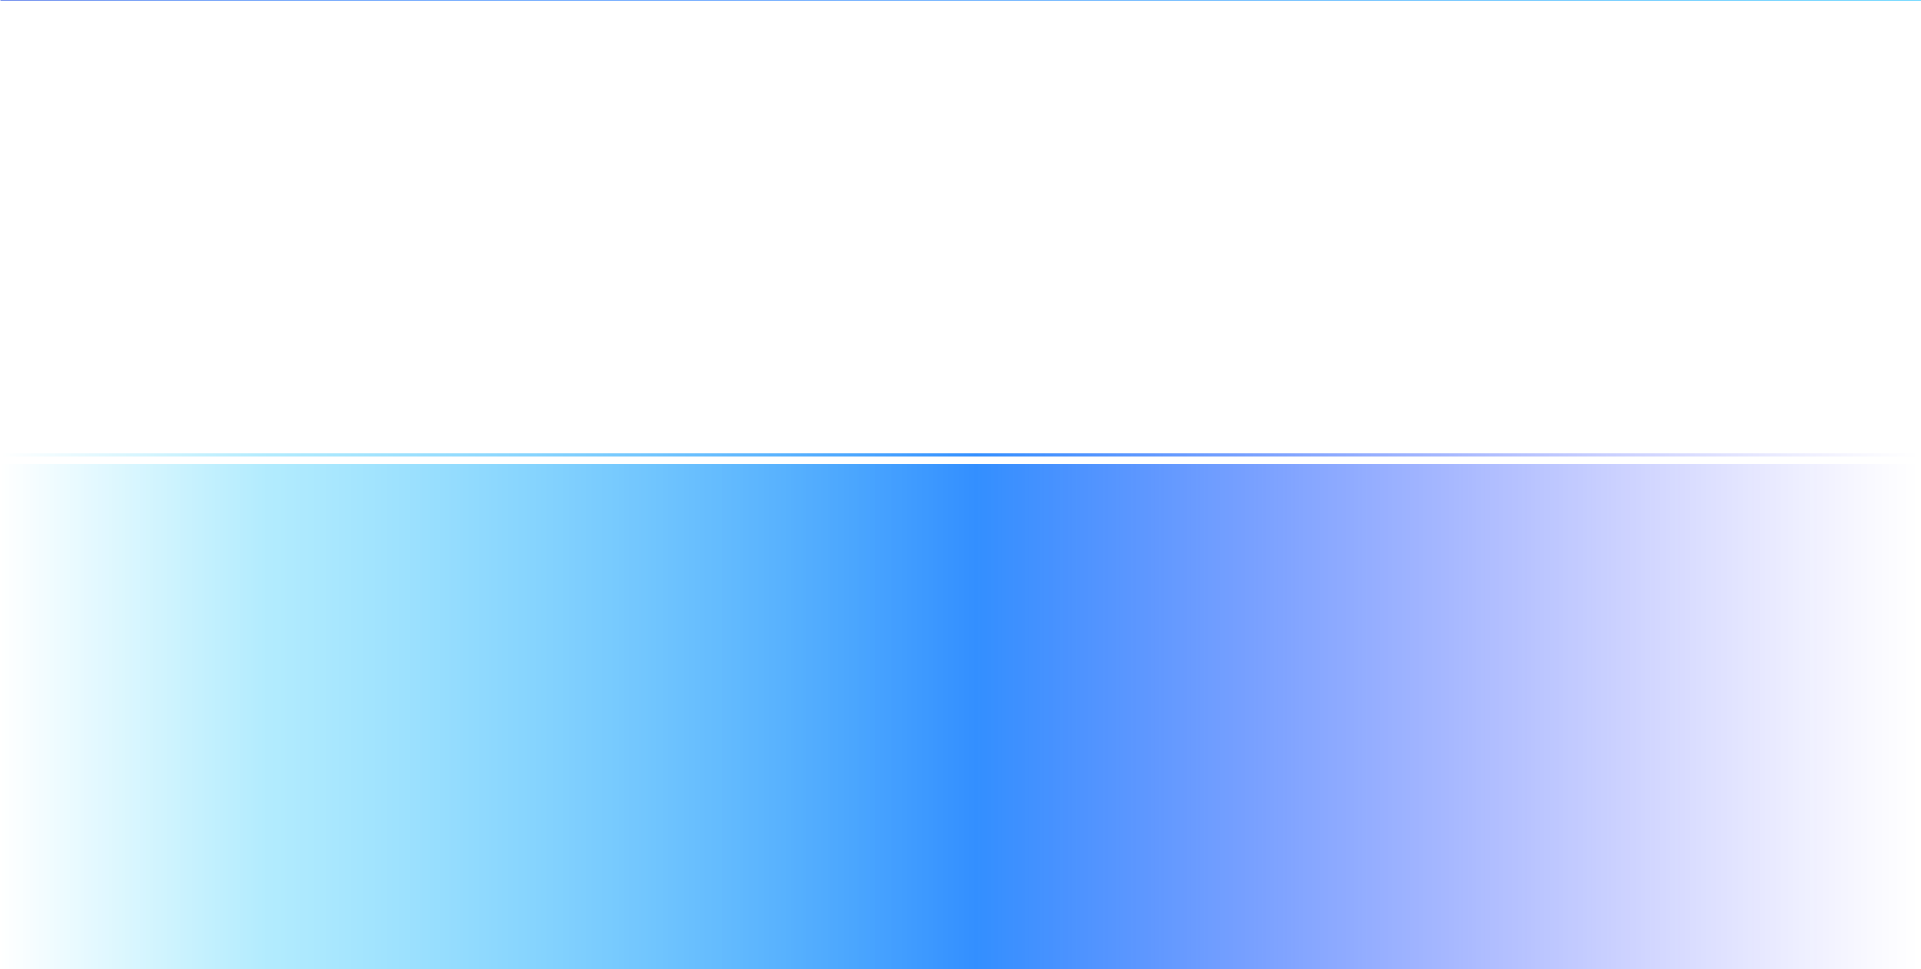
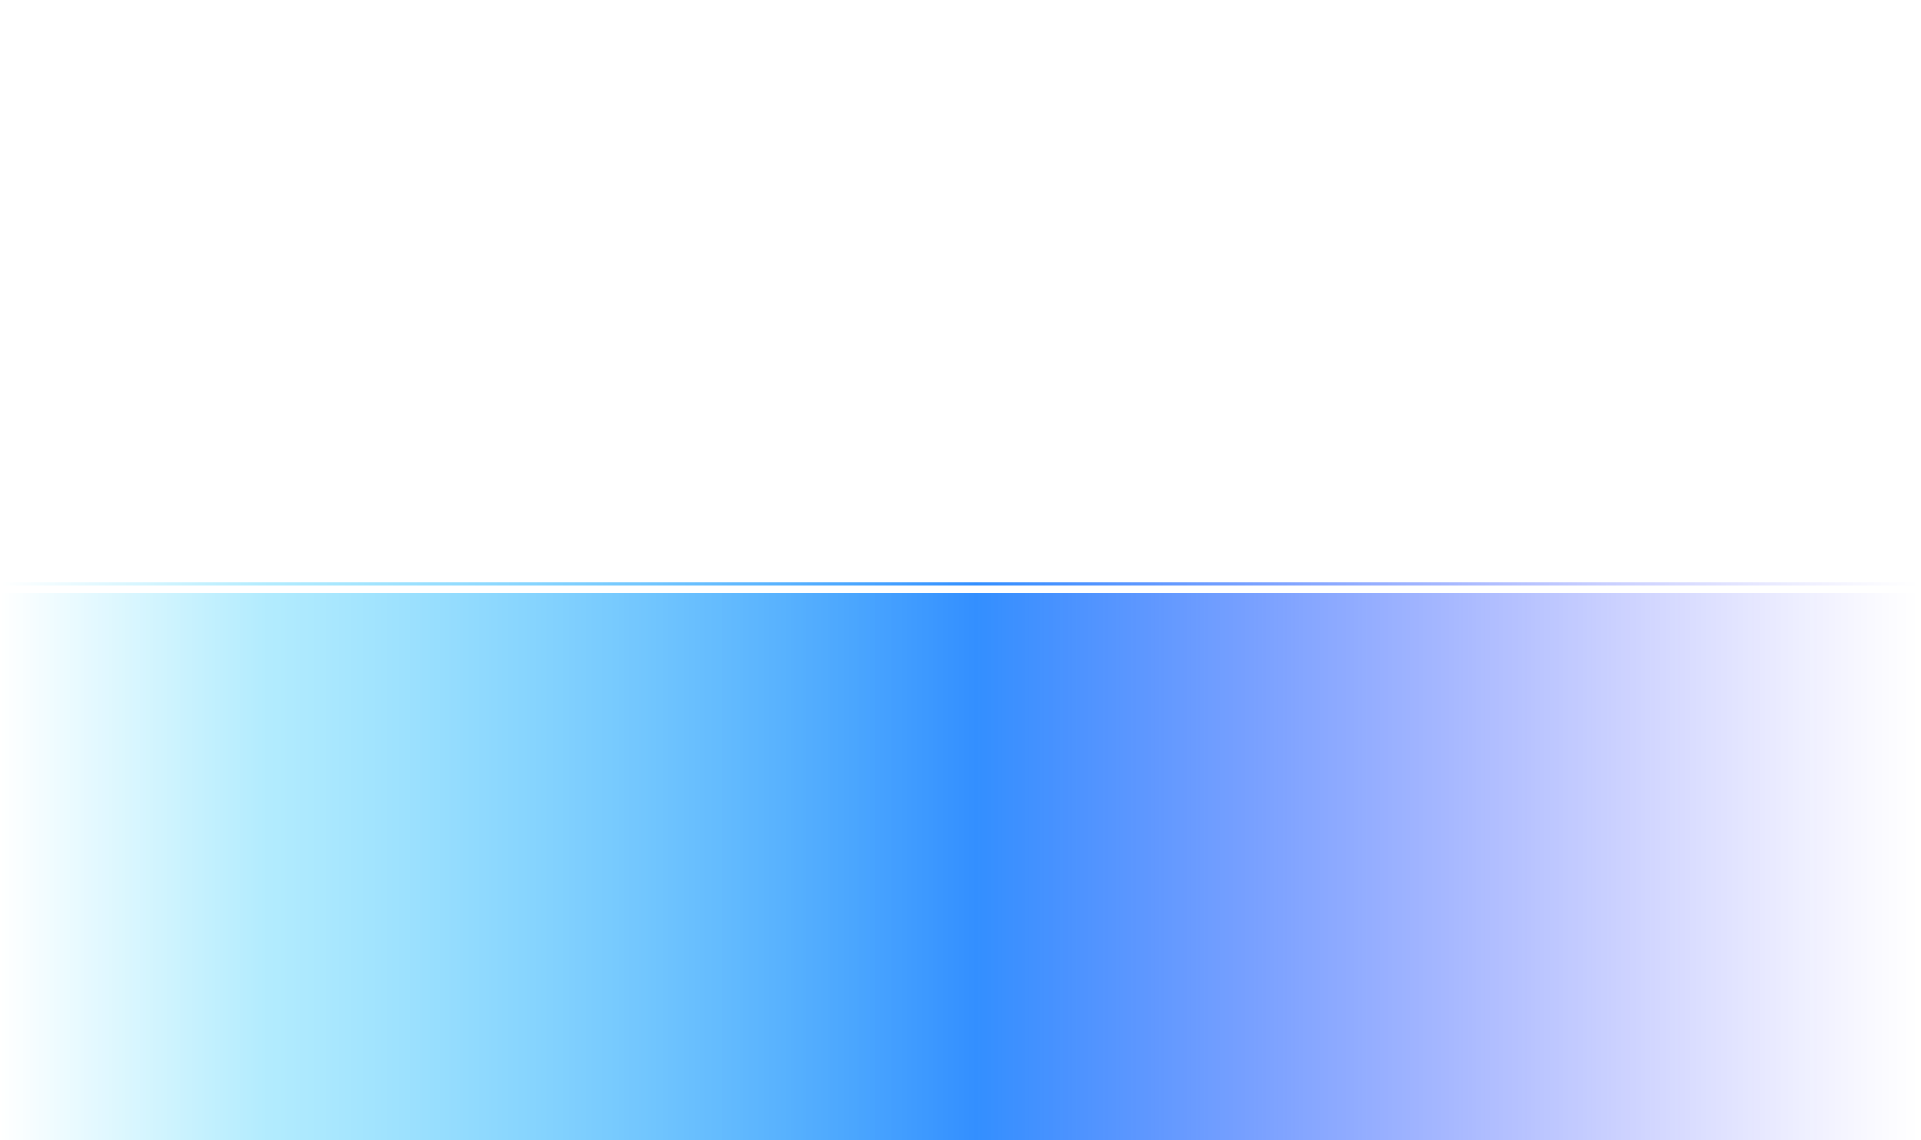
123

Changed region(s): [[0.0312, 0.4644, 0.937, 0.5263]]

diff --git a/danalytics/sass/pricing.css b/danalytics/sass/pricing.css
@@ -1,8 +1,8 @@
 @charset "UTF-8";
-.footer {
-  position: static;
-  background-color: white;
-  color: black;
+body {
+  background-image: url(../imgs/bg/bg4.png);
+  height: 100%;
+  background-size: contain;
 }
 
 .anavbar {
@@ -16,29 +16,34 @@
   filter: progid:DXImageTransform.Microsoft.gradient(startColorstr='#0032DE',endColorstr='#00B9FF' , GradientType=1);
 }
 
-.title {
+.container-fluids {
+  position: relative;
+  height: 100vh;
+}
+
+.container-fluids .title {
   position: absolute;
   color: #0044E3;
   font-weight: bolder;
   letter-spacing: 10px;
   font-size: 18px;
-  top: 9%;
+  top: 3%;
   left: 13%;
 }
 
-.title img {
+.container-fluids .title img {
   margin-right: 10px;
 }
 
-.title span {
+.container-fluids .title span {
   padding-left: 10px;
 }
 
-.line {
+.container-fluids .line {
   position: absolute;
   height: 3px;
-  width: 1408px;
-  top: 14%;
+  width: 1000px;
+  top: 10%;
   left: 13%;
   background: -moz-linear-gradient(0% 50% 0deg, #0069ff 0%, rgba(0, 122, 255, 0.97) 8.82%, rgba(0, 154, 255, 0.9) 28.13%, rgba(0, 174, 255, 0.84) 44.35%, rgba(0, 181, 255, 0.8) 55.41%, rgba(0, 181, 255, 0) 100%);
   background: -webkit-linear-gradient(0deg, #0069ff 0%, rgba(0, 122, 255, 0.97) 8.82%, rgba(0, 154, 255, 0.9) 28.13%, rgba(0, 174, 255, 0.84) 44.35%, rgba(0, 181, 255, 0.8) 55.41%, rgba(0, 181, 255, 0) 100%);
@@ -51,43 +56,49 @@
   box-shadow: 0px 1px 13px 3px white;
 }
 
-.tag, .tag2, .tag3, .tag4 {
+.container-fluids .tag, .container-fluids .tag2, .container-fluids .tag3, .container-fluids .tag4 {
   position: absolute;
-  width: 210px;
+  width: 15%;
   height: 540px;
   box-shadow: 0px 1px 17px -1px #00B5FF;
   border-radius: 10px;
   left: 20%;
-  top: 27%;
+  top: 22.5%;
   background-color: white;
   font-weight: bolder;
 }
 
-.tag .up, .tag2 .up, .tag3 .up, .tag4 .up {
+.container-fluids .tag .up, .container-fluids .tag2 .up, .container-fluids .tag3 .up, .container-fluids .tag4 .up {
   position: absolute;
   top: -11%;
   z-index: -1;
+  left: 50%;
+  transform: translate(-50%);
 }
 
-.tag .cir, .tag2 .cir, .tag3 .cir, .tag4 .cir {
+.container-fluids .tag .cir, .container-fluids .tag2 .cir, .container-fluids .tag3 .cir, .container-fluids .tag4 .cir {
+  background-size: contain;
+  background-repeat: no-repeat;
+  width: 100%;
+  height: 300px;
   position: absolute;
   top: 23%;
 }
 
-.tag .tag_title, .tag2 .tag_title, .tag3 .tag_title, .tag4 .tag_title {
+.container-fluids .tag .tag_title, .container-fluids .tag2 .tag_title, .container-fluids .tag3 .tag_title, .container-fluids .tag4 .tag_title {
   font-size: 20px;
   color: #828282;
   text-align: center;
   margin-top: 12%;
 }
 
-.tag ul, .tag2 ul, .tag3 ul, .tag4 ul {
+.container-fluids .tag ul, .container-fluids .tag2 ul, .container-fluids .tag3 ul, .container-fluids .tag4 ul {
   color: #828282;
   margin-top: 103%;
   margin-left: 15%;
 }
 
-.tag button, .tag2 button, .tag3 button, .tag4 button {
+.container-fluids .tag button, .container-fluids .tag2 button, .container-fluids .tag3 button, .container-fluids .tag4 button {
   position: absolute;
   width: 150px;
   height: 30px;
@@ -100,42 +111,49 @@
   bottom: 25%;
 }
 
-.tag .tag_line, .tag2 .tag_line, .tag3 .tag_line, .tag4 .tag_line {
+.container-fluids .tag .tag_line, .container-fluids .tag2 .tag_line, .container-fluids .tag3 .tag_line, .container-fluids .tag4 .tag_line {
   margin-top: 10%;
   height: 2px;
   width: 100%;
   background-color: black;
 }
 
-.tag .tag_cont, .tag2 .tag_cont, .tag3 .tag_cont, .tag4 .tag_cont {
+.container-fluids .tag .tag_cont, .container-fluids .tag2 .tag_cont, .container-fluids .tag3 .tag_cont, .container-fluids .tag4 .tag_cont {
   color: #FC4463;
   font-size: 15px;
   text-align: center;
   margin-top: 40px;
 }
 
-.tag .tag_cont span, .tag2 .tag_cont span, .tag3 .tag_cont span, .tag4 .tag_cont span {
+.container-fluids .tag .tag_cont span, .container-fluids .tag2 .tag_cont span, .container-fluids .tag3 .tag_cont span, .container-fluids .tag4 .tag_cont span {
   font-size: 6.6px;
 }
 
-.tag2 {
+.container-fluids .tag2 {
   left: 36%;
 }
 
-.tag2 ul {
+.container-fluids .tag2 ul {
   margin-top: 74%;
 }
 
-.tag3 {
+.container-fluids .tag3 {
   left: 52%;
 }
 
-.tag4 {
+.container-fluids .tag4 {
   left: 68%;
 }
 
-.tag4 .tag_line {
+.container-fluids .tag4 .tag_line {
   margin-top: 45%;
+}
+
+.footer {
+  width: 100%;
+  position: fixed;
+  background-color: white;
+  color: black;
 }
  
 

diff --git a/danalytics/sass/pricing.scss b/danalytics/sass/pricing.scss
@@ -3,11 +3,13 @@ $main-color:#0044E3;
 $main-font-color:white;
 $subject-font-color:#828282;
 $tag-font-cont-color:#FC4463;
-.footer {
-    position: static;
-    background-color: white;
-    color:black;
-  }
+
+body{
+    background-image: url(../imgs/bg/bg4.png);
+    height: 100%;
+    
+    background-size: contain;
+}
   .anavbar{
     background : -moz-linear-gradient(0% 50% 0deg,rgba(0, 50, 222, 1) 0%,rgba(0, 59, 227, 1) 2.09%,rgba(0, 79, 240, 1) 8.22%,rgba(0, 93, 248, 1) 15.2%,rgba(0, 101, 253, 1) 23.67%,rgba(0, 104, 255, 1) 37.84%,rgba(0, 158, 255, 1) 79.81%,rgba(0, 185, 255, 1) 100%);
     background : -webkit-linear-gradient(0deg, rgba(0, 50, 222, 1) 0%, rgba(0, 59, 227, 1) 2.09%, rgba(0, 79, 240, 1) 8.22%, rgba(0, 93, 248, 1) 15.2%, rgba(0, 101, 253, 1) 23.67%, rgba(0, 104, 255, 1) 37.84%, rgba(0, 158, 255, 1) 79.81%, rgba(0, 185, 255, 1) 100%);
@@ -18,13 +20,16 @@ $tag-font-cont-color:#FC4463;
     background : linear-gradient(90deg, rgba(0, 50, 222, 1) 0%, rgba(0, 59, 227, 1) 2.09%, rgba(0, 79, 240, 1) 8.22%, rgba(0, 93, 248, 1) 15.2%, rgba(0, 101, 253, 1) 23.67%, rgba(0, 104, 255, 1) 37.84%, rgba(0, 158, 255, 1) 79.81%, rgba(0, 185, 255, 1) 100%);
     filter: progid:DXImageTransform.Microsoft.gradient(startColorstr='#0032DE',endColorstr='#00B9FF' , GradientType=1);
   }
+  .container-fluids{
+      position: relative;
+      height: 100vh;
   .title{ 
     position: absolute;
     color:$main-color;
     font-weight: bolder;
     letter-spacing:10px;
     font-size:18px;
-    top: 9%;
+    top: 3%;
     left: 13%;
     img{
         margin-right:10px;
@@ -36,8 +41,8 @@ $tag-font-cont-color:#FC4463;
 .line{
     position: absolute;
     height:3px;
-    width:1408px;
-    top:14%;
+    width:1000px;
+    top:10%;
     left:13%;
     background : -moz-linear-gradient(0% 50% 0deg,rgba(0, 105, 255, 1) 0%,rgba(0, 122, 255, 0.97) 8.82%,rgba(0, 154, 255, 0.9) 28.13%,rgba(0, 174, 255, 0.84) 44.35%,rgba(0, 181, 255, 0.8) 55.41%,rgba(0, 181, 255, 0) 100%);
     background : -webkit-linear-gradient(0deg, rgba(0, 105, 255, 1) 0%, rgba(0, 122, 255, 0.97) 8.82%, rgba(0, 154, 255, 0.9) 28.13%, rgba(0, 174, 255, 0.84) 44.35%, rgba(0, 181, 255, 0.8) 55.41%, rgba(0, 181, 255, 0) 100%);
@@ -51,20 +56,26 @@ $tag-font-cont-color:#FC4463;
 }
   .tag{
     position: absolute;
-    width: 210px;
+    width: 15%;
     height: 540px;
     box-shadow: 0px 1px 17px -1px #00B5FF;
     border-radius:10px;
     left:20%;
-    top:27%;
+    top:22.5%;
     background-color:white;
     font-weight: bolder;
     .up{
       position: absolute;
       top:-11%;
       z-index: -1;
+      left: 50%;
+      transform: translate(-50%)
     }
     .cir{
+        background-size: contain;
+        background-repeat: no-repeat;
+        width: 100%;
+        height: 300px;
       position: absolute;
       top:23%;
     }
@@ -125,4 +136,11 @@ $tag-font-cont-color:#FC4463;
       .tag_line{
         margin-top:45%;
       }
+  }
+}
+  .footer {
+      width: 100%;
+    position: fixed;
+    background-color: white;
+    color:black;
   }

diff --git a/danalytics/pricing.html b/danalytics/pricing.html
@@ -76,13 +76,12 @@
             </div>
     </div>
     <div class="container-fluids" style="position:relative">
-        <img src="imgs/bg/bg4.png" alt="" style="width:100%">
         <div class="title"><img src="imgs/icon/pricing-b.png" alt="">方案與定價<span>PRICING</span></div>
         <div class="line"></div>
         <div class="tag">
             <div class="up"><img src="imgs/img/cardtitle1.png" alt=""></div>
             <div class="tag_title">品牌/廣告主</div>
-            <div class="cir"><img src="imgs/img/cardbody1.png" alt=""></div>
+            <div class="cir" style=" background-image: url(imgs/img/cardbody1.png);"></div>
             <ul>
                 <li>品牌定位</li>
                 <li>廣告效果衡量</li>
@@ -98,7 +97,7 @@
         <div class="tag2">
             <div class="up"><img src="imgs/img/cardtitle2.png" alt=""></div>
             <div class="tag_title">品牌/廣告主<br>廣告/媒體代理商<br>第三方監控</div>
-            <div class="cir"><img src="imgs/img/cardbody2.png" alt=""></div>
+            <div class="cir" style=" background-image: url(imgs/img/cardbody2.png);"></div>
             <ul>
                 <li>即時監測</li>
                 <li>市場調查</li>
@@ -114,7 +113,7 @@
         <div class="tag3">
             <div class="up"><img src="imgs/img/cardtitle3.png" alt=""></div>
             <div class="tag_title">候選人</div>
-            <div class="cir"><img src="imgs/img/cardbody3.png" alt=""></div>
+            <div class="cir" style=" background-image: url(imgs/img/cardbody3.png);"></div>
             <ul>
                 <li>民調調查</li>
                 <li>政見質化衡量</li>
@@ -128,7 +127,7 @@
         <div class="tag4">
             <div class="up"><img src="imgs/img/cardtitle4.png" alt=""></div>
             <div class="tag_title">品牌/廣告主</div>
-            <div class="cir"><img src="imgs/img/cardbody4.png" alt=""></div>
+            <div class="cir" style=" background-image: url(imgs/img/cardbody3.png);"></div>
             <ul>
                 <li>大數據時代</li>
             </ul>
